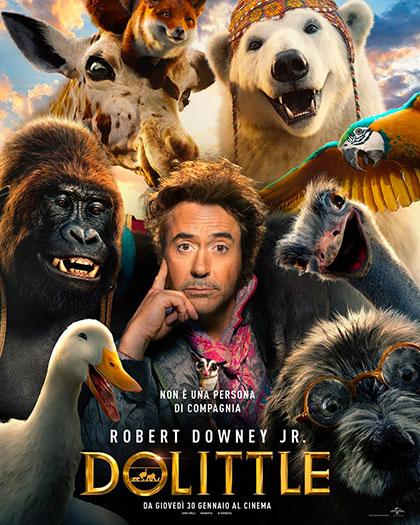
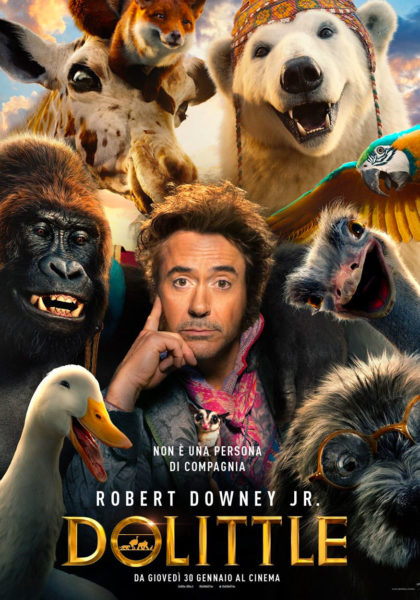
Immagini responsive per davvero

diff --git a/templates/base.html b/templates/base.html
@@ -78,7 +78,30 @@
 
 {% endblock %}
 
+
+
 <div class="works" id="work">
+    <style>
+.dimensione {
+transition-duration: 1s;
+-ms-transition-duration: 1s;
+-webkit-transition-duration: 1s;
+-moz-transition-duration: 1s;
+-o-transition-duration: 1s;
+transition-property: transform;
+-ms-transition-property: -ms-transform;
+-webkit-transition-property: -webkit-transform;
+-moz-transition-property: -moz-transform;
+-o-transition-property: -o-transform;
+overflow:hidden;
+}
+.dimensione:hover {
+-ms-transform: scale(1.3,1.3);
+-webkit-transform: scale(1.3,1.3);
+-moz-transform: scale(1.3,1.3);
+-o-transform: scale(1.3,1.3);
+}
+</style>
     <div class="container">
         <!-- heading -->
         <h2 color="black">In sala...</h2>
@@ -89,7 +112,7 @@
                 <!-- work item -->
                 <div class="work-item">
                     <!-- work details image -->
-                    <img class="img-responsive" src="/static/img/Locandine/TheGrudge.png"/>
+                    <img src="/static/img/Locandine/TheGrudge.png" class="dimensione"/>
                     <!-- heading -->
                     <h3><a href="#">The Grudge</a></h3>
                     <!-- brand org -->
@@ -100,7 +123,7 @@
                 <!-- work item -->
                 <div class="work-item">
                     <!-- work details image -->
-                    <img class="img-responsive" src="/static/img/Locandine/ToloTolo.png"/>
+                    <img class="dimensione" src="/static/img/Locandine/ToloTolo.png"/>
                     <!-- heading -->
                     <h3><a href="#">TOLO TOLO</a></h3>
                     <!-- brand org -->
@@ -111,7 +134,7 @@
                 <!-- work item -->
                 <div class="work-item">
                     <!-- work details image -->
-                    <img class="img-responsive" src="/static/img/Locandine/Hammamet.png"/>
+                    <img class="dimensione" src="/static/img/Locandine/Hammamet.png"/>
                     <!-- heading -->
                     <h3><a href="#">Hammamet</a></h3>
                     <!-- brand org -->
@@ -122,7 +145,7 @@
                 <!-- work item -->
                 <div class="work-item">
                     <!-- work details image -->
-                    <img class="img-responsive" src="/static/img/Locandine/GliAnniPiùBelli.png"/>
+                    <img class="dimensione" src="/static/img/Locandine/GliAnniPiùBelli.png"/>
                     <!-- heading -->
                     <h3><a href="#">Gli anni più belli</a></h3>
                     <!-- brand org -->
@@ -133,7 +156,7 @@
                 <!-- work item -->
                 <div class="work-item">
                     <!-- work details image -->
-                    <img class="img-responsive" src="/static/img/Locandine/IlRichiamoDellaForesta.png"/>
+                    <img class="dimensione" src="/static/img/Locandine/IlRichiamoDellaForesta.png"/>
                     <!-- heading -->
                     <h3><a href="#">Il Richiamo della Foresta</a></h3>
                     <!-- brand org -->
@@ -144,7 +167,7 @@
                 <!-- work item -->
                 <div class="work-item">
                     <!-- work details image -->
-                    <img class="img-responsive" src="/static/img/Locandine/Dolittle.png"/>
+                    <img class="dimensione" src="/static/img/Locandine/Dolittle.png"/>
                     <!-- heading -->
                     <h3><a href="#">Dolittle</a></h3>
                     <!-- brand org -->
@@ -155,7 +178,7 @@
                 <!-- work item -->
                 <div class="work-item">
                     <!-- work details image -->
-                    <img class="img-responsive" src="/static/img/Locandine/BB4Life.png"/>
+                    <img class="dimensione" src="/static/img/Locandine/BB4Life.png"/>
                     <!-- heading -->
                     <h3><a href="#">Bad Boys For Life</a></h3>
                     <!-- brand org -->
@@ -166,7 +189,7 @@
                 <!-- work item -->
                 <div class="work-item">
                     <!-- work details image -->
-                    <img class="img-responsive" src="/static/img/Locandine/OdioL'Estate.png"/>
+                    <img class="dimensione" src="/static/img/Locandine/OdioL'Estate.png"/>
                     <!-- heading -->
                     <h3><a href="#">Odio l'estate</a></h3>
                     <!-- brand org -->

diff --git a/static/css/style.css b/static/css/style.css
@@ -41,3 +41,8 @@ img {
     width:100%;
     height:auto;
 }
+
+.responsive {
+  width: 100%;
+  height: auto;
+}
